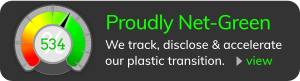
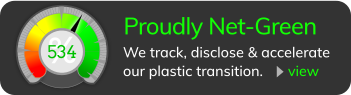
goes

diff --git a/footer.php b/footer.php
@@ -122,7 +122,7 @@ godefer.parentNode.insertBefore(giftofspeed, godefer);
 				</div>
 
 			<div class="virtue">
-				<a href="https://www.gobrik.com/#my-catalyst/enterprise-disclosure/5e1f513586a7fe0015e77628/" target="_blank"><img src="webp/disclose-black-500px.webp" width="350px" height="" alt="Click through to see a full and live breakdown of our 2021 ecological impacts on the GoBrik.com" title="Click through to see a full and live breakdown of our 2021 ecological impacts on the GoBrik.com"></a>
+				<a href="https://www.gobrik.com/#my-catalyst/enterprise-disclosure/5e1f513586a7fe0015e77628/" target="_blank"><img src="pngs/gea-disclose-grey-300px.png" width="325px" height="" alt="Click through to see a full and live breakdown of our 2021 ecological impacts on the GoBrik.com" title="Click through to see a full and live breakdown of our 2021 ecological impacts on the GoBrik.com"></a>
 			</div>
 		
 
